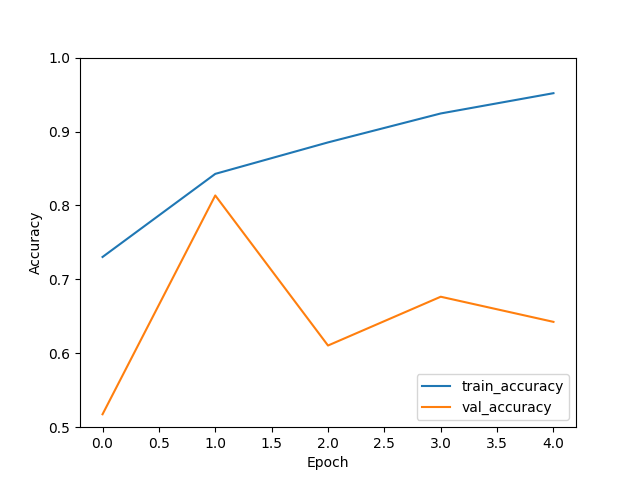
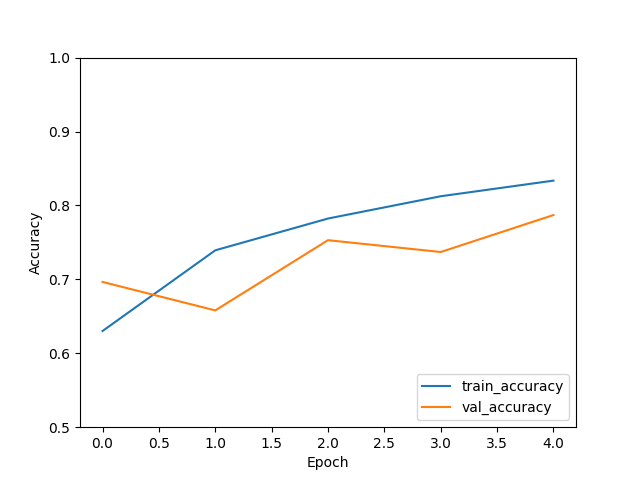
Experiment 2

diff --git a/model2.py b/model2.py
@@ -26,20 +26,18 @@ def build_model():
     predictions = layers.Dense(1, activation='sigmoid')(x)
     
     model = models.Model(inputs=basemodel.input, outputs=predictions)
-    model.compile(loss='binary_crossentropy', optimizer='adam', metrics=['accuracy', tf.keras.metrics.AUC()])
+    model.compile(loss='binary_crossentropy', optimizer=tf.keras.optimizers.Adam(learning_rate=1e-6), metrics=['accuracy', tf.keras.metrics.AUC()])
+    
+    for layer in model.layers[:45]:
+        layer.trainable = False
+    for layer in model.layers[45:]:
+        layer.trainable = True
     
     return model
 
-# def load_data(data_dir, img_height, img_width):
-#     X = tf.keras.utils.image_dataset_from_directory(data_dir, seed=23, image_size=(img_height, img_width))
-#     normalization_layer = tf.keras.layers.Rescaling(1./255)
-#     normalized_X = X.map(lambda x: normalization_layer(x))
-    
-#     return normalized_X
-
 def split_dataset(X, label=True, ratio=[0.7, 0.2, 0.1]):
-    print(X.shape)
     n = X.shape[0]
+    print(X.shape)
     train_size = int(ratio[0] * n)
     eval_size = int(ratio[1] * n)
     test_size = int(ratio[2] * n)
@@ -129,7 +127,8 @@ if __name__ == '__main__':
     real_img_dir = args.real_dir.split(',')
     synthetic_img_dir = args.synthetic_dir.split(',')
     
-
+    np.random.seed(23)
+    
     X_synthetic = [util.load_data(img_dir) for img_dir in synthetic_img_dir]
     X_real = [util.load_data(img_dir) for img_dir in real_img_dir]
     print(X_real[0].shape)
@@ -144,7 +143,7 @@ if __name__ == '__main__':
     print('training model')
     # Fit ResNet50 model
     model = build_model()
-    history = model.fit(X_train, Y_train, epochs=num_epoch, batch_size=100, validation_data=(X_eval, Y_eval), shuffle=True)   
+    history = model.fit(X_train, Y_train, epochs=num_epoch, batch_size=5, validation_data=(X_eval, Y_eval), shuffle=True)   
     json.dump(history.history, open(os.path.join(logging_dir, 'result.json'), 'w'))
     print('Training completed')
     print(history.history)
@@ -152,8 +151,10 @@ if __name__ == '__main__':
     plot_history(history.history, logging_dir)
     
     #Plot ROC Curve
+    # Y_train_pred = model.predict(X_train).ravel()
     Y_eval_pred = model.predict(X_eval).ravel()
     fpr_eval, tpr_eval, thresolds_eval = roc_curve(Y_eval, Y_eval_pred)
+    # fpr_train, tpr_train, thresolds_train = roc_curve(Y_train, Y_train_pred)
     auc_eval = auc(fpr_eval, tpr_eval)
     plot_roc_curve(tpr_eval, fpr_eval, auc_eval, 'ROC Curve - Evaluation Set ', os.path.join(logging_dir, 'evaluation_ROC.png'))
     print('Completed')

diff --git a/util.py b/util.py
@@ -11,7 +11,14 @@ def convert_image_to_array(filename, img_height=256, img_width=256):
 
 def load_data(dir):
     print('Loading ' + dir)
-    filenames = [os.path.join(dir, f) for f in os.listdir(dir)]
+    count = 0
+    filenames = []
+    for f in tqdm(os.listdir(dir)):
+        filenames.append(os.path.join(dir, f))
+        count += 1
+        if count == 2500:
+            break
+    # filenames = [os.path.join(dir, f) for f in os.listdir(dir)]
     X = np.array([convert_image_to_array(f) for f in tqdm(filenames)])
     X = X / 255
     print('Completed loading ' + dir)

diff --git a/model.py b/model.py
@@ -27,6 +27,11 @@ def build_model():
     model = models.Model(inputs=basemodel.input, outputs=predictions)
     model.compile(loss='binary_crossentropy', optimizer='adam', metrics=['accuracy', tf.keras.metrics.AUC()])
     
+    for layer in model.layers[:40]:
+        layer.trainable = False
+    for layer in model.layers[40:]:
+        layer.trainable = True
+    
     return model
 
 # def load_data(data_dir, img_height, img_width):
